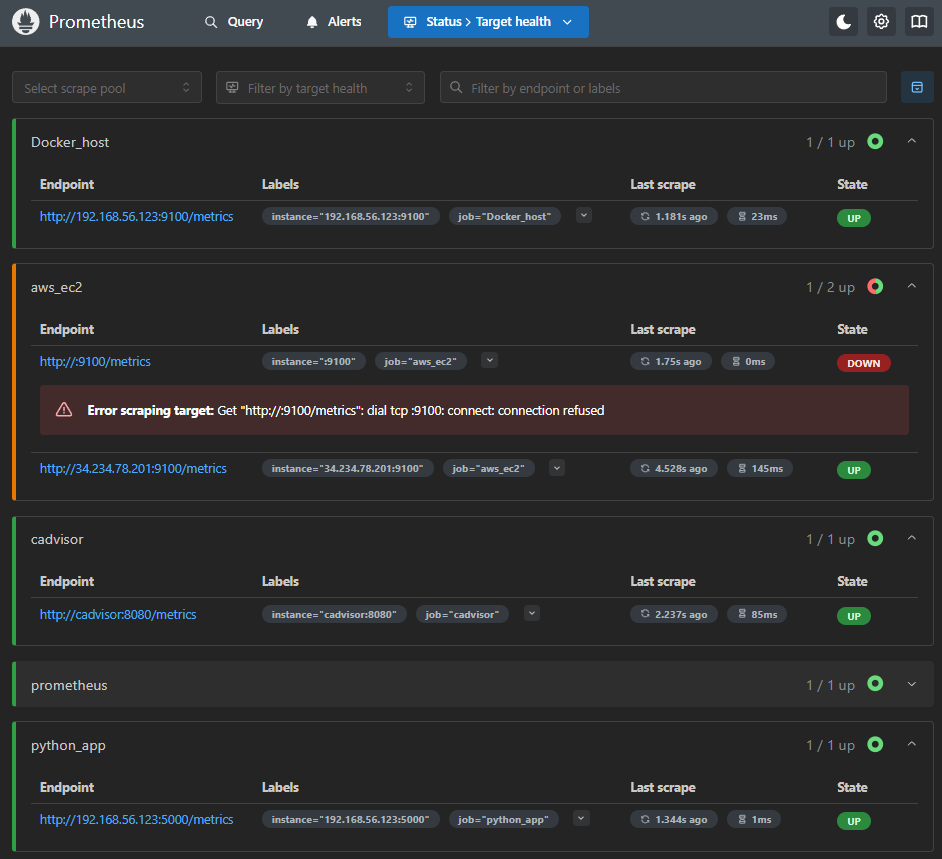
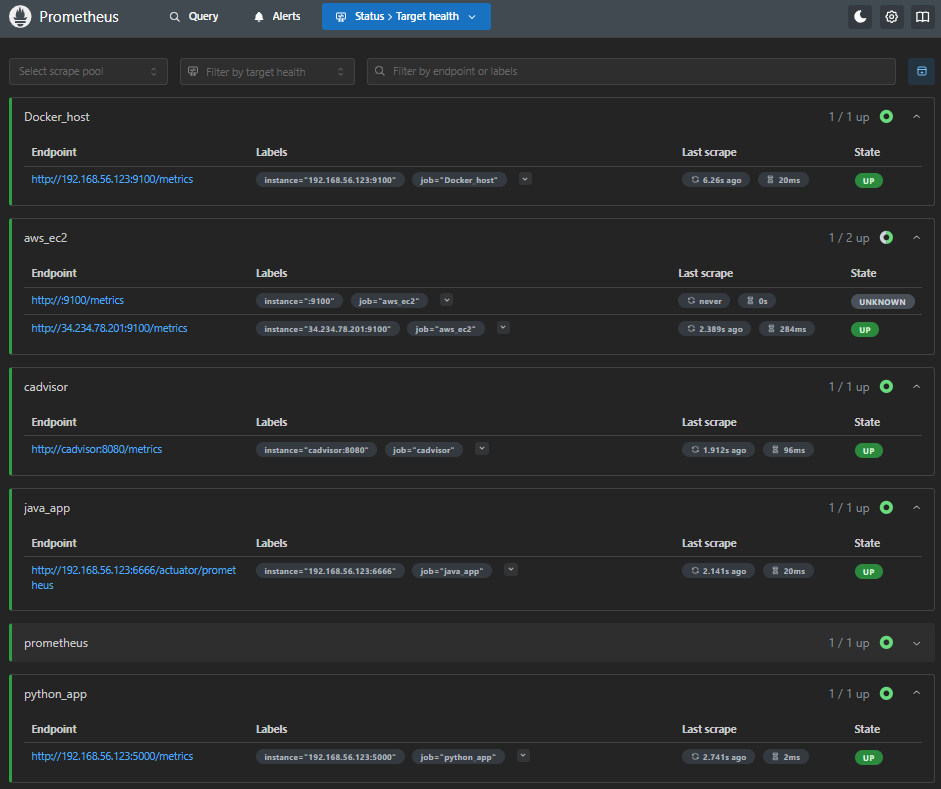
added Java APP

diff --git a/nodejs/index.js b/nodejs/index.js
@@ -1,0 +1,32 @@
+const express = require('express');
+const path = require('path');
+const app = express();
+
+const client = require('prom-client');
+
+// Create a Registry which registers the metrics
+const register = new client.Registry();
+
+// Add a default label which is added to all metrics
+register.setDefaultLabels({
+    app: 'example-nodejs-app'
+});
+
+// Enable the collection of default metrics
+client.collectDefaultMetrics({ register });
+
+// Serve HTML file on homepage
+app.get('/', function (req, res) {
+    res.sendFile(path.join(__dirname, 'index.html'));
+});
+
+// Metrics endpoint
+app.get('/metrics', async function (req, res) {
+    res.set('Content-Type', register.contentType);
+    const metrics = await register.metrics();
+    res.send(metrics);
+});
+
+const server = app.listen(8000, function () {
+    console.log("Application running on port: %s", server.address().port);
+});

diff --git a/nodejs/index.html b/nodejs/index.html
@@ -1,0 +1,13 @@
+<!DOCTYPE html>
+<html lang="en">
+<head>
+    <meta charset="UTF-8">
+    <meta name="viewport" content="width=device-width, initial-scale=1.0">
+    <title>NodeJS Prometheus App</title>
+</head>
+<body>
+    <h1>Welcome to NodeJS Prometheus App edit from haytham</h1>
+    <p>Application is running successfully.</p>
+    <p>Metrics endpoint: <a href="/metrics">/metrics</a></p>
+</body>
+</html>

diff --git a/python/app.py b/python/app.py
@@ -1,0 +1,21 @@
+from flask import Flask, Response
+from prometheus_client import Counter, generate_latest, CONTENT_TYPE_LATEST
+
+# simple flask app with prometheus monitoring
+app = Flask(__name__)
+requests_total = Counter(
+    'app_requests_total',
+    'Total requests'
+)
[email redacted]('/')
+def home():
+    requests_total.inc()
+    return "Hello ITI to python app with prometheus monitoring"
[email redacted]('/metrics')
+def metrics():
+    return Response(
+        generate_latest(),
+        mimetype=CONTENT_TYPE_LATEST
+    )
+if __name__ == '__main__':
+    app.run(host='0.0.0.0', port=5000)

diff --git a/java/src/main/java/com/example/demo/HelloController.java b/java/src/main/java/com/example/demo/HelloController.java
@@ -1,0 +1,14 @@
+package com.example.demo;
+
+import org.springframework.web.bind.annotation.GetMapping;
+import org.springframework.web.bind.annotation.RestController;
+
+@RestController
+public class HelloController {
+
+    @GetMapping("/")
+    public String hello() {
+        return "Spring Boot Prometheus Test";
+    }
+
+}

diff --git a/java/src/main/java/com/example/demo/DemoApplication.java b/java/src/main/java/com/example/demo/DemoApplication.java
@@ -1,0 +1,13 @@
+package com.example.demo;
+
+import org.springframework.boot.SpringApplication;
+import org.springframework.boot.autoconfigure.SpringBootApplication;
+
+@SpringBootApplication
+public class DemoApplication {
+
+    public static void main(String[] args) {
+        SpringApplication.run(DemoApplication.class, args);
+    }
+
+}

diff --git a/nodejs/README.md b/nodejs/README.md
@@ -1,0 +1,14 @@
+# nodejs-app-for-prometheus
+## these the commands that I used 
+```bash
+git clone [email redacted]:HaythamMohamd/nodejs-app-for-prometheus.git
+cd nodejs-app-for-prometheus/
+ls
+vim index.html 
+git status 
+git add index.html 
+git status 
+git commit -m "haytham edit the file index.html"
+git status 
+git push 
+```